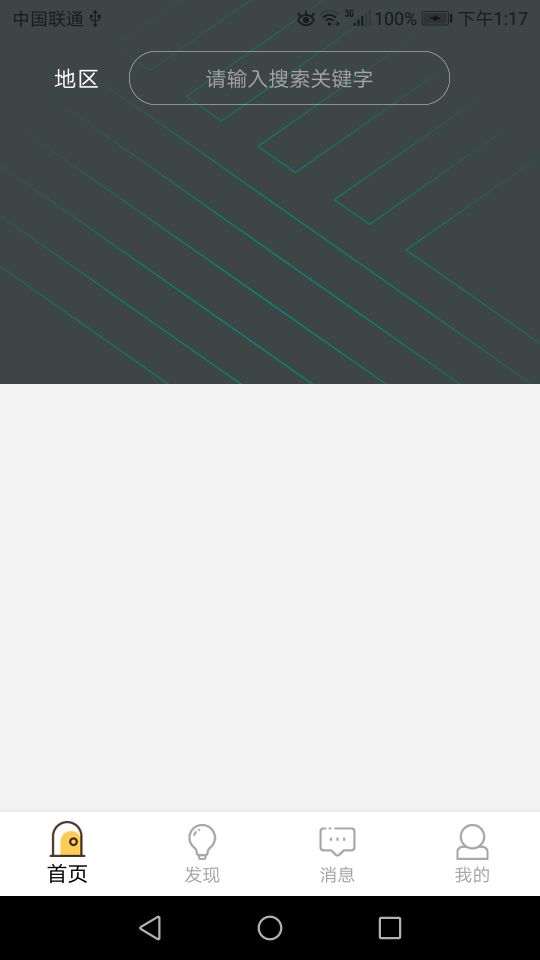
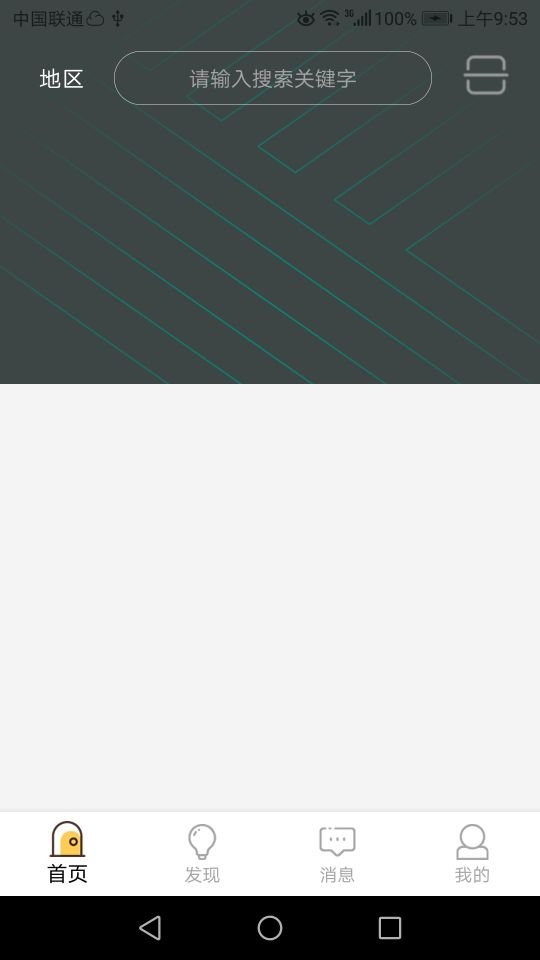
新增部分功能

diff --git a/app/src/main/java/com/vincent/baseproject/ui/home/fragment/HomeFragmentA.kt b/app/src/main/java/com/vincent/baseproject/ui/home/fragment/HomeFragmentA.kt
@@ -59,7 +59,7 @@ class HomeFragmentA : BaseLazyFragment() {
             CityPicker.from(mActivity) //activity或者fragment
                 .enableAnimation(true)    //启用动画效果，默认无
 //                .setAnimationStyle(anim)	//自定义动画
-                .setLocatedCity(LocatedCity("杭州", "浙江", "101210101"))  //APP自身已定位的城市，传null会自动定位（默认）
+                .setLocatedCity(null)  //APP自身已定位的城市，传null会自动定位（默认）
                 .setHotCities(hotCities)    //指定热门城市
                 .setOnPickListener(object : OnPickListener {
                     override fun onPick(position: Int, data: City?) {
@@ -73,11 +73,11 @@ class HomeFragmentA : BaseLazyFragment() {
 
                     override fun onLocate() {
                         //定位接口，需要APP自身实现，这里模拟一下定位
-                        Handler().postDelayed(Runnable {
+                        Handler().postDelayed( {
                             //定位完成之后更新数据
                             CityPicker.from(this@HomeFragmentA)
                                 .locateComplete(LocatedCity("成都", "四川", "101270101"), LocateState.SUCCESS)
-                        }, 3000)
+                        }, 1500)
                     }
 
                 })

diff --git a/app/src/main/java/com/vincent/baseproject/ui/WebActivity.kt b/app/src/main/java/com/vincent/baseproject/ui/WebActivity.kt
@@ -112,13 +112,13 @@ class WebActivity : UIActivity() {
                     "<title>扫描结果</title>"+
                     "<meta name=\"viewport\" content=\"width=device-width, initial-scale=1.0\" />"+
                     "<style type=\"text/css\"> \n" +
-                    "body {font-size:13px;}\n" +
+                    "body {font-size:13px; background: #EEEEEE;}\n" +
                     "</style> \n" +
                     "</head> \n" +
                     "<body>" +
-                    "<div style=\"word-break: break-all;\">{" +
+                    "<div style=\"word-break: break-all;\">" +
                     info+
-                    "}</div>"+
+                    "</div>"+
               "</body>" +
                     "</html>"
             web_wv_view.loadDataWithBaseURL(null,standard,"text/html","utf-8",null)

diff --git a/README.md b/README.md
@@ -1,15 +1,28 @@
 此项目是在轮子哥的[模板工程](https://github.com/getActivity/AndroidProject)上进行重构的，初衷是为了删除一些自己不熟悉的框架而添加一些自己熟悉的框架，并且使用 androidX、jetpack、Kotlin，完成一个自己用起来顺手的模板工程。这也符合其开源初衷：
 > 当我们日复一日年复一年的搬砖的时候，你是否曾想过提升一下开发效率，如果一个模板的项目摆在你的面前，你还会选择自己搭架构么
 
-登录模块使用 MVVM 框架实现，首页通过 Navigation 来实现 Fragment 控制，WebActivity 增加 WebView 下载文件功能，其它基本上都是属于简单的 Activity 基类、 Fragment 基类封装以及部分自定义 View 编写，具体代码详见内容。
+## 一、功能简介：
+
+ * 登录模块使用 MVVM 框架实现，首页通过 Navigation 来实现 Fragment 控制
+ * WebActivity 增加 WebView 下载文件功能
+ * 首页增加城市选择，城市选择数据查看：（待提交）如果需要自定义数据，需要重写数据库类[DBManager](https://github.com/zaaach/CityPicker/blob/master/citypicker/src/main/java/com/zaaach/citypicker/db/DBManager.java)
+ * 首页增加扫一扫功能，并对扫一扫结果通过 WebActivity 展示
+ *  Activity 基类、 Fragment 基类封装以及部分自定义 View 编写等
 
 ## 一、项目截图：
 ![首页](./screenCapture/tab1.jpg)
 ![发现](./screenCapture/tab2.jpg)
 ![消息](./screenCapture/tab3.jpg)
 ![我的](./screenCapture/tab4.jpg)
+![我的](./screenCapture/tab4.jpg)
+![选择城市](./screenCapture/cityPicker.jpg)
+![扫一扫](./screenCapture/scan.jpg)
+![扫描结果](./screenCapture/scanResult.jpg)
+![版本检测](./screenCapture/checkVersion.jpg)
+![Apk文件下载](./screenCapture/fileDownload.jpg)
+![安装提示](./screenCapture/installTip.jpg)
 
-## 二、集成框架：
+## 三、集成框架：
 
 > // ViewModel and LiveData
 > 
@@ -72,11 +85,22 @@
 > // 键对值存储器  https://github.com/orhanobut/hawk
 > 
 > implementation "com.orhanobut:hawk:$rootProject.ext.hawk"
+> 
+> // 版本更新
+>
+> implementation "com.github.yjfnypeu:UpdatePlugin:$rootProject.ext.updatePlugin"
+>
+> //城市选择
+> implementation "com.zaaach:citypicker:$rootProject.ext.citypicker"
+> 
+> // 扫一扫
+> 
+> implementation "com.mylhyl:zxingscanner:$rootProject.ext.zxing"
 
-
-## 三、联系方式：
+## 四、联系方式：
  1. 本人邮箱：weixing9920@163.com
  2. [轮子哥：https://www.jianshu.com/u/f7bb67d86765](https://www.jianshu.com/u/f7bb67d86765)
-## 四、下一周计划：
- * 添加版本更新功能
- * 添加扫一扫功能
+
+## 五、下一步计划：
+ * 新增全部网络提醒
+ * 新增年月日选择对话框
